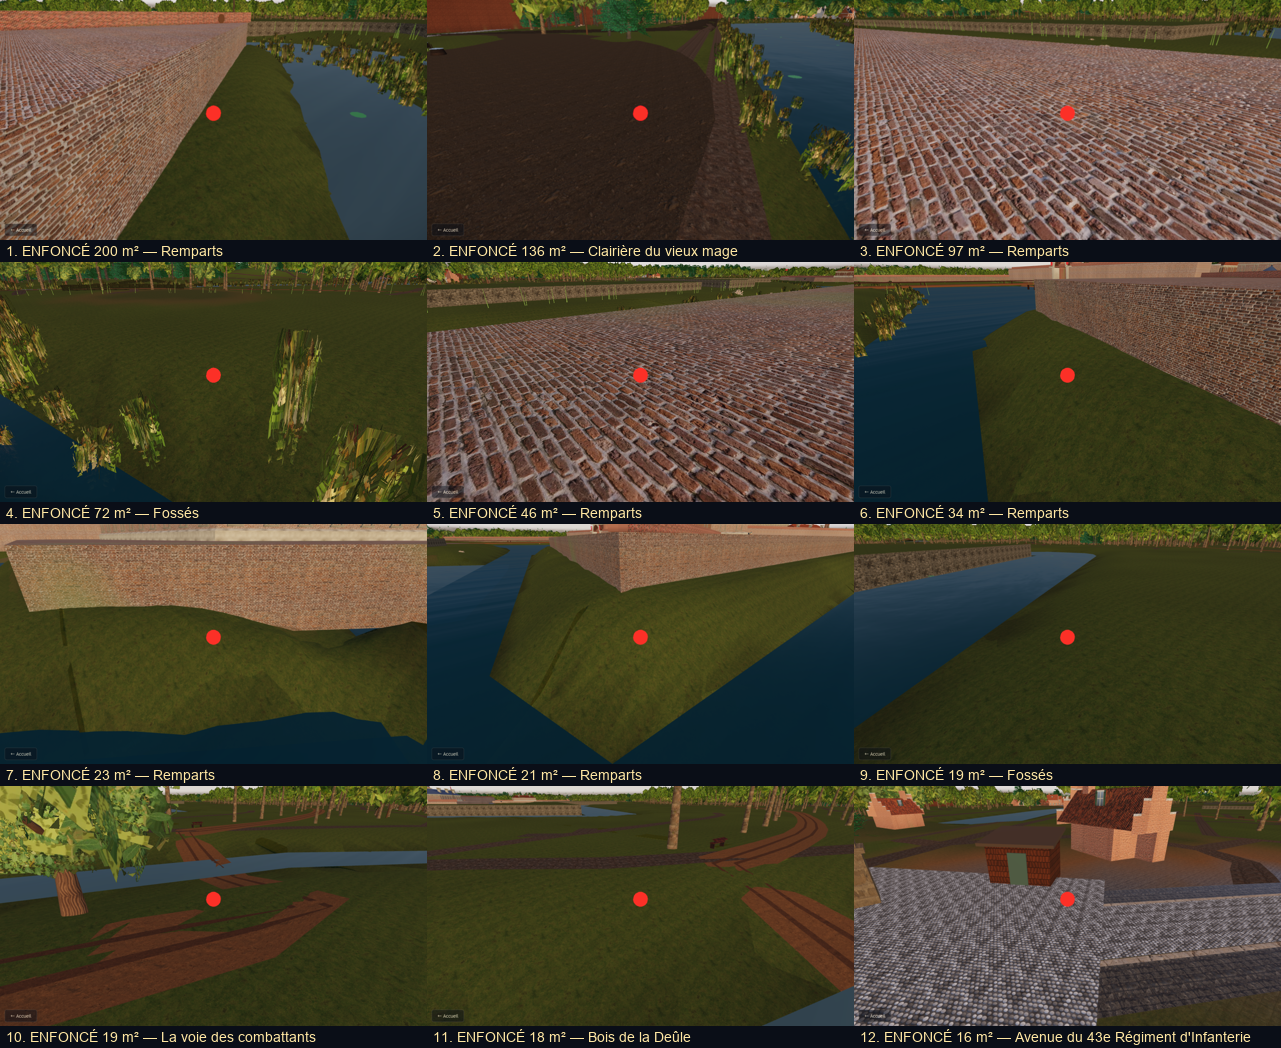
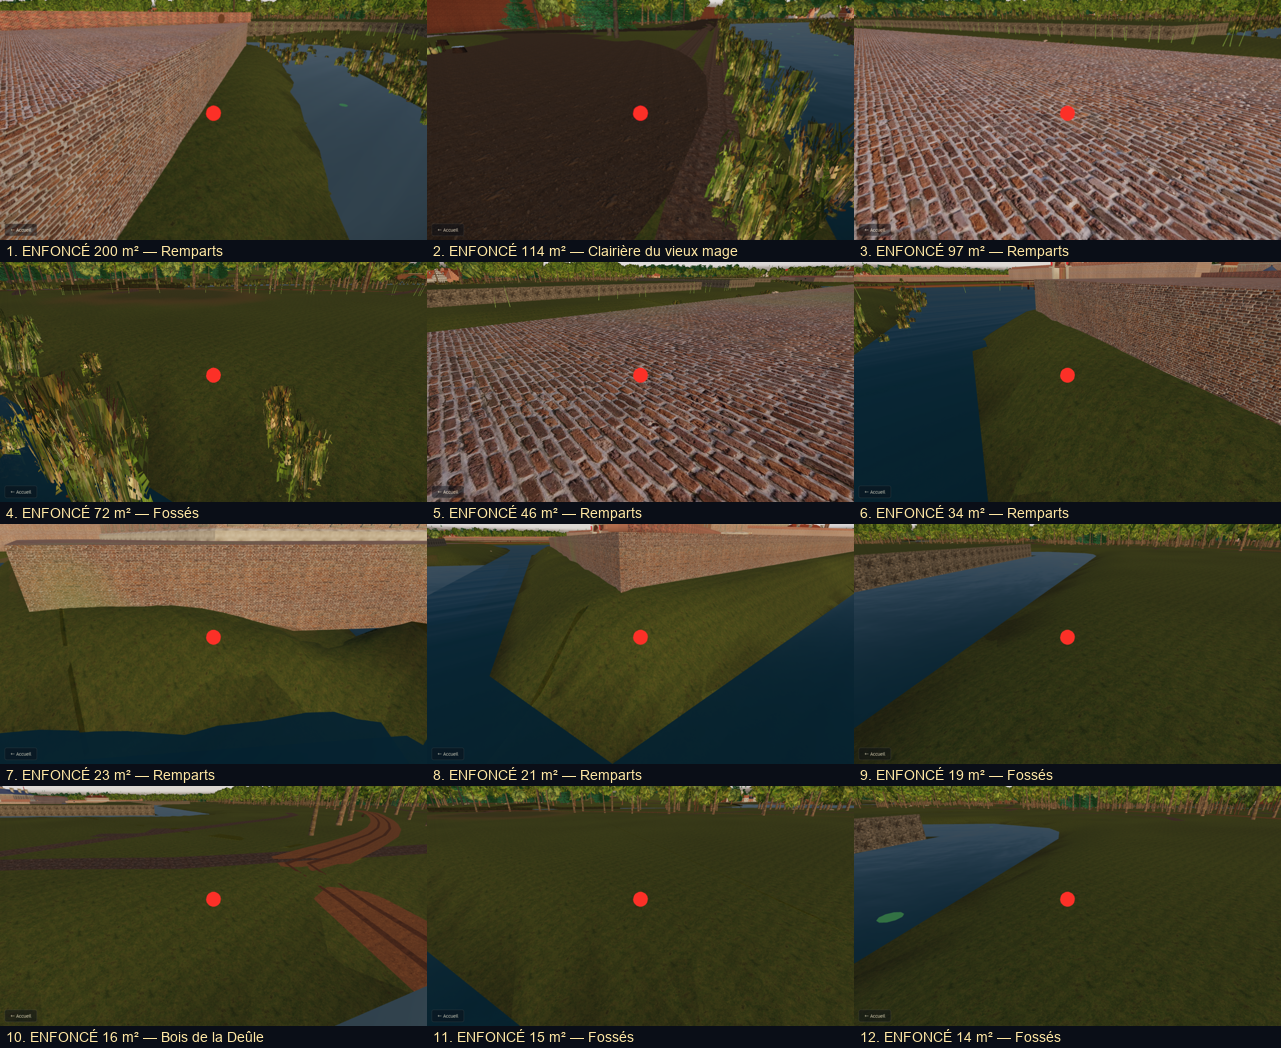
pieds_sur_les_paves

diff --git a/carte.js b/carte.js
@@ -2211,7 +2211,7 @@ export function solVille(pas = 6) {
 // sentiers, terre battue pour la desserte, pavé pour les artères.
 export function voiriesLille() {
   const g = new THREE.Group(); g.name = 'voiries-de-lille';
-  const ajoute = (ge, mat) => { if (!ge) return; const m = new THREE.Mesh(ge, mat); m.receiveShadow = true; m.renderOrder = 1; g.add(m); };
+  const ajoute = (ge, mat) => { if (!ge) return; graverVoie(ge); const m = new THREE.Mesh(ge, mat); m.receiveShadow = true; m.renderOrder = 1; g.add(m); };
   // Un chemin de halage est de la terre battue, pas de la craie : en clair il dessinait
   // un liseré blanc tout autour du fossé et de la Deûle, visible jusqu'en vue aérienne.
   ajoute(rubanGeo(LILLE.chemins, LARGEUR_CHEMIN, 0.14),
@@ -2597,6 +2597,37 @@ export function nearRoad(x, z) { const P = roadPts(); for (let i = 0; i < P.leng
 
 export function inHouse(x, z) { return Math.abs(x - HOUSE.x) < HOUSE.w / 2 && Math.abs(z - HOUSE.z) < HOUSE.d / 2; }
 
+// L'ÉPAISSEUR DE CE QUI EST DESSINÉ SUR LE RELIEF. Chaussées, trottoirs, chemins, route de
+// campagne et voie des combattants sont des rubans posés 5 à 19 cm AU-DESSUS du relief (pour
+// que le terrain ne les perce pas entre deux sommets) ; le sol marchable, lui, restait au
+// relief : Camille avait les pieds dans les pavés sur toutes les routes. Chaque ruban grave
+// donc, triangle par triangle, de combien il dépasse le relief dans une grille d'un mètre, et
+// levelH y ajoute cette épaisseur. Seules les surépaisseurs comptent (un fossé dessiné en
+// creux ne creuse pas le sol marchable : le relief peut le recouvrir).
+const EP_N = Math.ceil(2 * PLAINE_R), EPAIS = new Uint8Array(EP_N * EP_N);   // en centimètres
+export function graverVoie(ge) {
+  if (!ge) return;
+  const P = ge.attributes.position, I = ge.index ? ge.index.array : null, n = I ? I.length : P.count;
+  for (let t = 0; t < n; t += 3) {
+    const a = I ? I[t] : t, b = I ? I[t + 1] : t + 1, c = I ? I[t + 2] : t + 2;
+    const ax = P.getX(a), ay = P.getY(a), az = P.getZ(a), bx = P.getX(b), by = P.getY(b), bz = P.getZ(b), cx = P.getX(c), cy = P.getY(c), cz = P.getZ(c);
+    const det = (bz - cz) * (ax - cx) + (cx - bx) * (az - cz); if (Math.abs(det) < 1e-6) continue;
+    const i0 = Math.max(0, Math.floor(Math.min(ax, bx, cx) + PLAINE_R)), i1 = Math.min(EP_N - 1, Math.floor(Math.max(ax, bx, cx) + PLAINE_R));
+    const j0 = Math.max(0, Math.floor(Math.min(az, bz, cz) + PLAINE_R)), j1 = Math.min(EP_N - 1, Math.floor(Math.max(az, bz, cz) + PLAINE_R));
+    for (let j = j0; j <= j1; j++) for (let i = i0; i <= i1; i++) {
+      const x = i - PLAINE_R + 0.5, z = j - PLAINE_R + 0.5;
+      const l1 = ((bz - cz) * (x - cx) + (cx - bx) * (z - cz)) / det, l2 = ((cz - az) * (x - cx) + (ax - cx) * (z - cz)) / det, l3 = 1 - l1 - l2;
+      if (l1 < -1e-4 || l2 < -1e-4 || l3 < -1e-4) continue;
+      const d = Math.round((l1 * ay + l2 * by + l3 * cy - solPlaine(x, z)) * 100);
+      if (d > 2 && d < 60 && d > EPAIS[j * EP_N + i]) EPAIS[j * EP_N + i] = d;
+    }
+  }
+}
+export function epaisseurVoie(x, z) {
+  const i = Math.floor(x + PLAINE_R), j = Math.floor(z + PLAINE_R);
+  return i < 0 || j < 0 || i >= EP_N || j >= EP_N ? 0 : EPAIS[j * EP_N + i] / 100;
+}
+
 export function levelH(x, z) {
   if (bastionAt(x, z)) return BAST_H;
   // terrasse du donjon : anneau plein autour du puits (le trou de collision était carré, on tombait entre l'escalier et le bord),
@@ -2623,7 +2654,7 @@ export function levelH(x, z) {
   //  par preparerPonts — sans quoi on ne peut pas passer dessous)
   { const o = dehorsAt(x, z); if (o) return o.h; }
   if (BOURG_CALE && inTown(x, z)) return solBourg(x, z);   // dallage du bourg (cf. calerBourg)
-  return solPlaine(x, z);
+  return solPlaine(x, z) + epaisseurVoie(x, z);
 }
 
 export function levelBlocked(x, z, r, flying, y) {

diff --git a/campagne.js b/campagne.js
@@ -9,7 +9,7 @@ import {
   pbrRepeat, phMat, rand, rboxG, scene, sphG, state, stoneMat, tex, wallBox, world,
 } from './engine.js?v=27';
 import {
-  CHAMPS, ECH, FERME, HOUSE, LARGEUR_CHEMIN, LARGEUR_ROUTE, LILLE, VOIE_C, MAGE, MOAT_OUT, cobbles, levelBlocked, libreNature, margePlate,
+  CHAMPS, ECH, FERME, HOUSE, LARGEUR_CHEMIN, graverVoie, LARGEUR_ROUTE, LILLE, VOIE_C, MAGE, MOAT_OUT, cobbles, levelBlocked, libreNature, margePlate,
   nearTown, patinerMat, roadPts, sdPent, solPlaine, HOUSE_SMOKE_TOP,
 } from './carte.js';
 import { makeDoor, makeVolet } from './menuiserie.js';
@@ -407,6 +407,7 @@ function ruban(s0, s1, lanes, m, pas = 3.2) {
   g.setAttribute('uv', new THREE.Float32BufferAttribute(uv, 2));
   g.setAttribute('color', new THREE.Float32BufferAttribute(col, 3));
   g.setIndex(idx); g.computeVertexNormals();
+  if (m !== matsCampagne().eau) graverVoie(g);          // chaussée, accotements, talus : on marche dessus (cf. levelH)
   const me = new THREE.Mesh(g, m); me.receiveShadow = true; scene.add(me);
   return me;
 }

diff --git a/promenade.js b/promenade.js
@@ -14,7 +14,7 @@ import {
   THREE, T, TAU, addCap, mat, mesh, pbrRepeat, phMat, rand,
 } from './engine.js?v=27';
 import {
-  LARGEUR_CHEMIN, LARGEUR_ROUTE, LILLE, PONTS, cobbles, roadPts, rubanGeo, sdEau, sdPent, solPlaine, surDehors, surPont, voieCombattants,
+  LARGEUR_CHEMIN, LARGEUR_ROUTE, LILLE, PONTS, cobbles, graverVoie, roadPts, rubanGeo, sdEau, sdPent, solPlaine, surDehors, surPont, voieCombattants,
 } from './carte.js';
 import { distSeg } from './engine.js?v=27';
 
@@ -54,6 +54,7 @@ export function voieDesCombattants() {
   // peinte au milieu — un marquage routier des années 1960 — n'ont rien à faire dans
   // une ville du XVIIe. Deux ornières de charroi tiennent lieu de marquage.
   const bande = rubanGeo(lignes, 4.2, 0.17);
+  graverVoie(bande);                    // on marche SUR la bande, pas dedans (cf. levelH)
   if (bande) {
     const m = new THREE.Mesh(bande, phMat('terre_battue', 1, 1, {
       color: 0x8e7b5e, roughness: 1, polygonOffset: true, polygonOffsetFactor: -3,

diff --git a/PROMPT-REPRISE.md b/PROMPT-REPRISE.md
@@ -785,11 +785,14 @@ quartier et des sols (déterministes), et KTX2 pour l'envoi des textures (§ 4.E
   décors posés à la main reposent bien. Les instances (tonneaux, caisses, lanternes des rues)
   ne sont pas testées : raisonné sur le code, tonneaux et caisses du quartier s'enfonçaient
   de 8 à 15 cm dans la dalle des trottoirs — remontés de 10 cm.
-- **Trouvé en route, pas corrigé (à décider)** : les chaussées sont dessinées 13 à 19 cm
-  AU-DESSUS du sol marchable (le décalage qui évite que le relief perce le ruban) — Camille a
-  les pieds dans les pavés sur toutes les routes, depuis toujours ; les trottoirs de même.
-  Piste : relever le sol marchable sur les voies (une grille fine des épaisseurs de chaussée,
-  lue par levelH), plutôt que d'abaisser les rubans.
+- **Les pieds dans les pavés** (feu vert d'Eugène) : les chaussées étaient dessinées 13 à 19 cm
+  AU-DESSUS du sol marchable (le décalage qui évite que le relief perce le ruban). Chaque ruban
+  (voiries, trottoirs, bordures, chemins, voie des combattants, route de campagne) grave
+  maintenant sa surépaisseur réelle, triangle par triangle, dans une grille d'un mètre
+  (`graverVoie`, `epaisseurVoie`, carte.js ; 6,5 Mo) que `levelH` ajoute au relief. Mesuré :
+  sol marchable = dessin au centimètre sur l'axe des rues (0 à 7 cm au bord d'une cellule).
+  Seules les surépaisseurs comptent (un fossé en creux ne creuse pas le sol). ≈ +50 ms au
+  chargement. Entrées du bourg, 8 ponts, murs 97,3 %, arpenteur 872 m² : rien ne régresse.
 Mesures : murs 97,3 % de rue atteinte, marches sur la rue 44 → 3 ; chargement 13,3–13,7 s.
 
 ## 5. Ce que le code a appris — à ne pas redécouvrir
